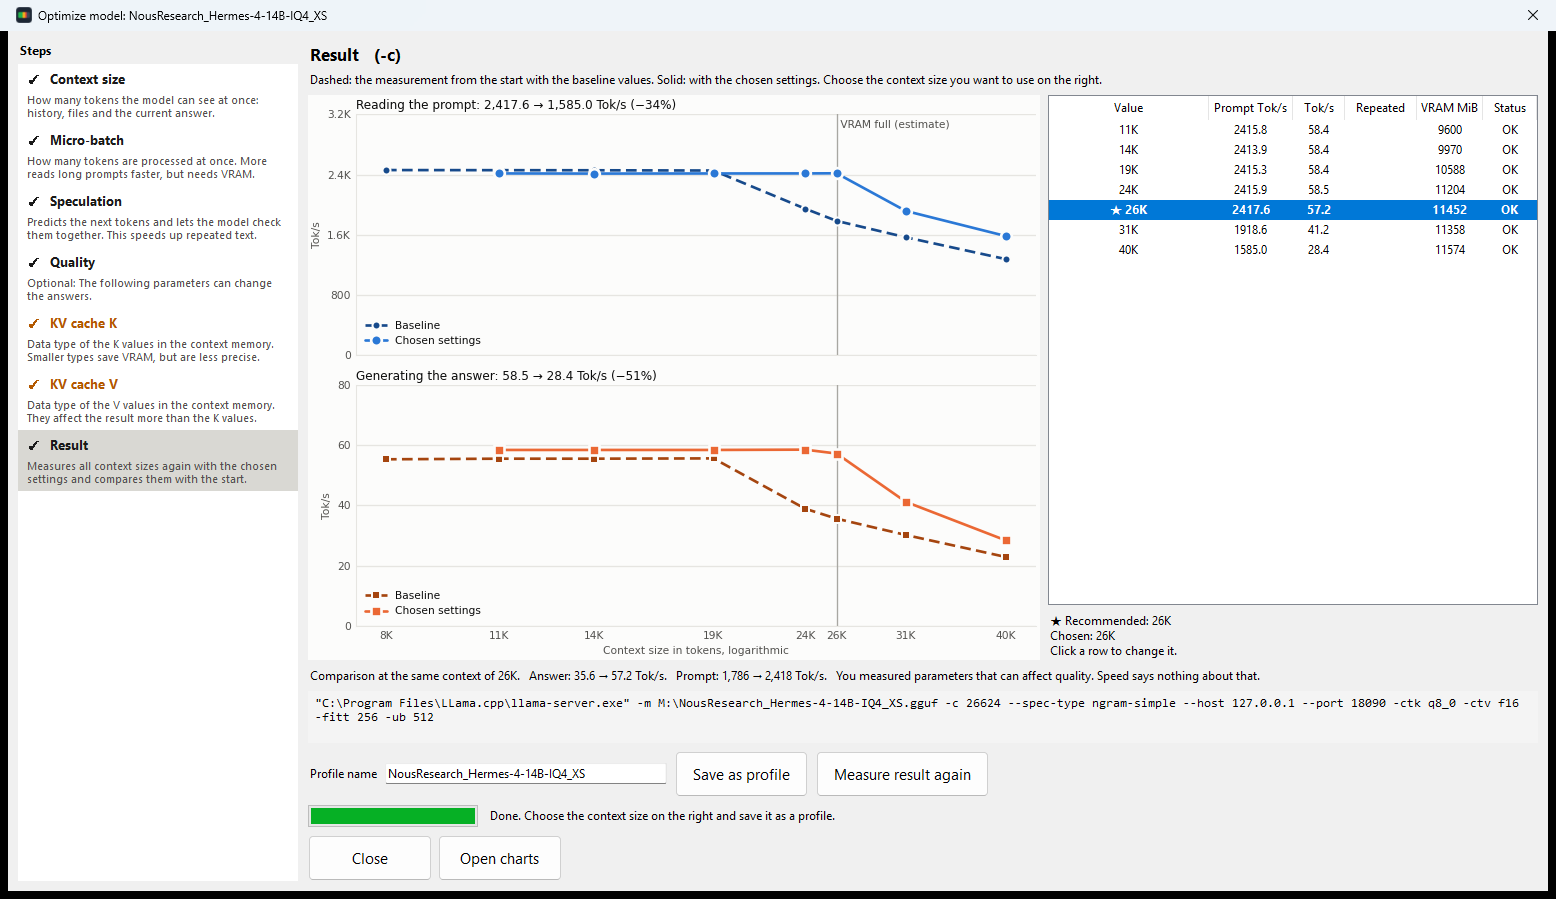
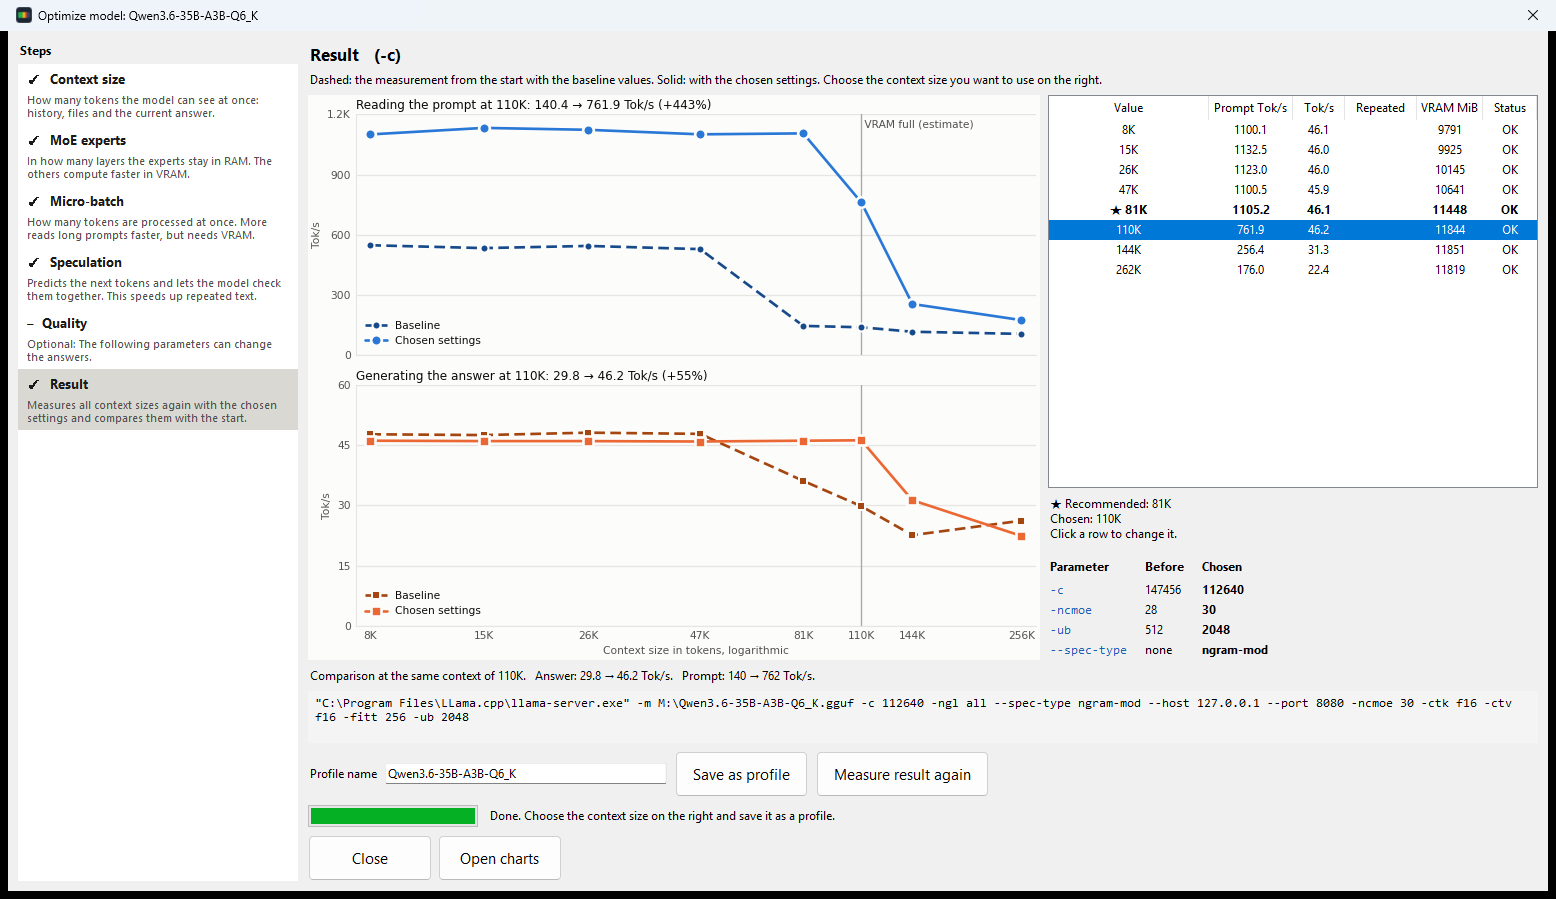
README: Ergebnisbild als Blickfang ganz oben
Beide READMEs zeigen direkt nach dem Einstieg das Ergebnis von Modell
optimieren mit Qwen3.6 35B-A3B, dazu die wichtigsten Zahlen. Das englische
Bild und Beispiel zeigen jetzt ebenfalls diesen Lauf statt Hermes 4.

diff --git a/README.de.md b/README.de.md
@@ -8,6 +8,10 @@
 
 NoProbLlama holt mehr aus deinen lokalen KI-Modellen heraus. Statt einzelne Startoptionen von Hand auszuprobieren, testest du sie systematisch: Der Assistent **Modell optimieren** misst die Kontextgröße und die wichtigsten Parameter der Reihe nach, zeigt dir das Tempo als Kurven und führt dich so zu den Einstellungen, mit denen dein Modell auf deiner Grafikkarte möglichst schnell und gut läuft. Die beste Kombination speichert er als Profil.
 
+![Beispiel für Modell optimieren: Prompt- und Antworttempo mit den gewählten Einstellungen durchgezogen, die Messung vom Anfang gestrichelt, rechts die Auswahl der Kontextgröße](Bilder/ergebnis.png)
+
+**Beispiel:** Qwen3.6 35B-A3B, ein MoE-Modell, auf einer RTX 4070 mit 12 GB. Gestrichelt sind die Ausgangswerte, durchgezogen das Ergebnis von **Modell optimieren**. Bei 110K Kontext antwortet das Modell mit 46,2 statt 29,8 Tok/s und liest den Prompt mit 762 statt 140 Tok/s ein, ohne Abstriche bei der Qualität.
+
 NoProbLlama ist eine Windows-Oberfläche für [llama.cpp](https://github.com/ggml-org/llama.cpp). Das Programm schätzt außerdem den Speicherbedarf schon vor dem Start. Zum Chatten bringt es ein eigenes Fenster mit, das ohne Browser auskommt und dadurch VRAM spart. Und sobald der Server läuft, kannst du das Modell direkt in OpenCode nutzen.
 
 ![Hauptfenster mit Modellauswahl, VRAM-Schätzung, Knöpfen und Einstellungen](Bilder/hauptfenster.png)
@@ -38,9 +42,7 @@ Den Assistenten startest du mit dem Knopf **Modell optimieren** in der oberen Le
 3. **Parameter, die die Qualität beeinflussen können (freiwillig):** `-ctk` und `-ctv`. Hier entscheidest du selbst, was du misst und welchen Wert du nimmst. Willst du keine Qualitätseinbußen riskieren, überspringst du diesen Teil einfach. Die Messung zeigt nur das Tempo, nicht die Qualität. Prüfe das Ergebnis deshalb mit deinen eigenen Aufgaben.
 4. **Ergebnis:** Zum Schluss misst das Programm die Kontextgrößen noch einmal, diesmal mit allen gewählten Einstellungen. Das Diagramm zeigt diese Messung als durchgezogene Linie und die vom Anfang gestrichelt in einem dunkleren Ton, bei denselben Kontextgrößen. Fehlt am Anfang eine Größe, etwa eine neue VRAM-Grenze nach kleineren KV-Typen, misst das Programm sie mit den Ausgangswerten nach. So siehst du für jede Kontextgröße, was deine Einstellungen bringen. Rechts wählst du die Größe, darunter stehen der Startbefehl und der Knopf zum Speichern als Profil mit dem Namen des Modells. Das Profil steht danach auch im Hauptfenster bereit. Gemessen werden alle Größen vom Anfang, das dauert ein paar Minuten.
 
-![Ergebnis: Prompt- und Antworttempo mit den gewählten Einstellungen durchgezogen, die Messung vom Anfang gestrichelt, rechts die Auswahl der Kontextgröße](Bilder/ergebnis.png)
-
-Das Beispiel zeigt das MoE-Modell Qwen3.6 35B-A3B (Q6_K) auf einer RTX 4070 mit 12 GB, der Qualitätsteil ist übersprungen. Mit den Ausgangswerten bricht das Tempo oberhalb von 47K Kontext ein. Mit `-ncmoe 30`, `-ub 2048` und `ngram-mod` hält die Antwort dagegen bis 110K bei rund 46 Tok/s. Bei 110K steigt sie von 29,8 auf 46,2 Tok/s und das Einlesen von 140 auf 762 Tok/s, bei 81K von 36,1 auf 46,1 und von 147 auf 1.105 Tok/s. Dafür geht keine Qualität verloren. Ganz oben bei 262K ist die Ausgangsmessung bei der Antwort etwas schneller. Dort hatte am Anfang jede Kontextgröße ihre eigene Verteilung der Experten, das Ergebnis nutzt dagegen fest `-ncmoe 30`.
+Das Beispiel ganz oben zeigt das MoE-Modell Qwen3.6 35B-A3B (Q6_K) auf einer RTX 4070 mit 12 GB, der Qualitätsteil ist übersprungen. Mit den Ausgangswerten bricht das Tempo oberhalb von 47K Kontext ein. Mit `-ncmoe 30`, `-ub 2048` und `ngram-mod` hält die Antwort dagegen bis 110K bei rund 46 Tok/s. Bei 110K steigt sie von 29,8 auf 46,2 Tok/s und das Einlesen von 140 auf 762 Tok/s, bei 81K von 36,1 auf 46,1 und von 147 auf 1.105 Tok/s. Dafür geht keine Qualität verloren. Ganz oben bei 262K ist die Ausgangsmessung bei der Antwort etwas schneller. Dort hatte am Anfang jede Kontextgröße ihre eigene Verteilung der Experten, das Ergebnis nutzt dagegen fest `-ncmoe 30`.
 
 Auch die einzelnen Schritte können viel zeigen. Im selben Lauf hob `-ncmoe 30` statt 28 das Einlesen bei 81K von 278 auf 545 Tok/s und die Antwort von 31,4 auf 46,3 Tok/s. `-ub 2048` statt 512 verdoppelte das Einlesen danach noch einmal auf 1.095 Tok/s. In einem Lauf mit Hermes 4 14B stieg das Tempo bei wiederholtem Text mit `ngram-simple` von 53 auf 1.011 Tok/s, neuer Text wurde dadurch nicht langsamer. In einem anderen Lauf mit Hermes 3 8B (Q6_K) fiel die Antwort bei 47K Kontext mit `-ctk f16` auf 1,9 Tok/s, mit `q8_0` waren es 67 Tok/s.
 

diff --git a/README.md b/README.md
@@ -8,6 +8,10 @@
 
 NoProbLlama gets more out of your local AI models. Instead of trying start options one at a time by hand, you test them systematically: the **Optimize model** wizard measures the context size and the most important parameters one after the other, shows you the speed as curves and so guides you to the settings that make your model run as fast and as well as possible on your graphics card. It saves the best combination as a profile.
 
+![Optimize model example: prompt and answer speed with the chosen settings as solid lines, the measurement from the start dashed, and the context size selection on the right](Bilder/en/result.png)
+
+**Example:** Qwen3.6 35B-A3B, a MoE model, on an RTX 4070 with 12 GB. Dashed are the baseline values, solid is the result of **Optimize model**. At 110K of context, the model answers at 46.2 instead of 29.8 Tok/s and reads the prompt at 762 instead of 140 Tok/s, with no compromise on quality.
+
 NoProbLlama is a Windows interface for [llama.cpp](https://github.com/ggml-org/llama.cpp). The program also estimates the memory needed before you start anything. For chatting, it has its own window that works without a browser and therefore saves VRAM. And as soon as the server is running, you can use the model directly in OpenCode.
 
 ![Main window with model selection, VRAM estimate, buttons and settings](Bilder/en/main_window.png)
@@ -40,11 +44,9 @@ Start the wizard with the **Optimize model** button in the top bar. On the left,
 3. **Parameters that can affect quality (optional):** `-ctk` and `-ctv`. Here you decide yourself what to measure and which value to use. If you do not want to risk any loss of quality, simply skip this part. The measurement only shows speed, not quality, so check the result with your own tasks.
 4. **Result:** Finally, the program measures the context sizes once more, this time with all chosen settings. The chart shows this measurement as a solid line and the one from the start dashed in a darker shade, at the same context sizes. If a size is missing from the start, such as a new VRAM limit after smaller KV types, the program measures it with the baseline values. This way you see for every context size what your settings bring. You choose the size on the right, and below it are the start command and the button to save everything as a profile with the name of the model. The profile is then available in the main window too. All sizes from the start are measured again, which takes a few minutes.
 
-![Result: prompt and answer speed with the chosen settings as solid lines, the measurement from the start dashed, and the context size selection on the right](Bilder/en/result.png)
+The example at the top shows the MoE model Qwen3.6 35B-A3B (Q6_K) on an RTX 4070 with 12 GB, with the quality part skipped. With the baseline values, speed drops above 47K of context. With `-ncmoe 30`, `-ub 2048` and `ngram-mod`, however, the answer holds at around 46 Tok/s up to 110K. At 110K it rises from 29.8 to 46.2 Tok/s and prompt reading from 140 to 762 Tok/s, at 81K from 36.1 to 46.1 and from 147 to 1,105 Tok/s. No quality is lost for this. At the very top, at 262K, the baseline measurement answers a little faster. There, each context size had its own distribution of the experts at the start, while the result uses a fixed `-ncmoe 30`.
 
-The example shows Hermes 4 14B (IQ4_XS) on an RTX 4070 with 12 GB. With the baseline values, speed drops above 19K of context, presumably because VRAM overflows. `-ctk q8_0` saves about 700 MiB here, and speed then holds up to 26K. At 26K, the answer therefore goes from 35.6 to 57.2 Tok/s and prompt reading from 1,786 to 2,418 Tok/s. This measurement does not show whether `q8_0` changes the quality.
-
-The individual steps can also reveal a lot. In the same run, `ngram-simple` raised the speed on repeated text from 53 to 1,011 Tok/s, without slowing down new text. In another run with Hermes 3 8B (Q6_K), the answer fell to 1.9 Tok/s at 47K of context with `-ctk f16`, and reached 67 Tok/s with `q8_0`.
+The individual steps can also reveal a lot. In the same run, `-ncmoe 30` instead of 28 raised prompt reading at 81K from 278 to 545 Tok/s and the answer from 31.4 to 46.3 Tok/s. `-ub 2048` instead of 512 then doubled prompt reading again to 1,095 Tok/s. In a run with Hermes 4 14B, `ngram-simple` raised the speed on repeated text from 53 to 1,011 Tok/s, without slowing down new text. In another run with Hermes 3 8B (Q6_K), the answer fell to 1.9 Tok/s at 47K of context with `-ctk f16`, and reached 67 Tok/s with `q8_0`.
 
 **Good to know:**
 
